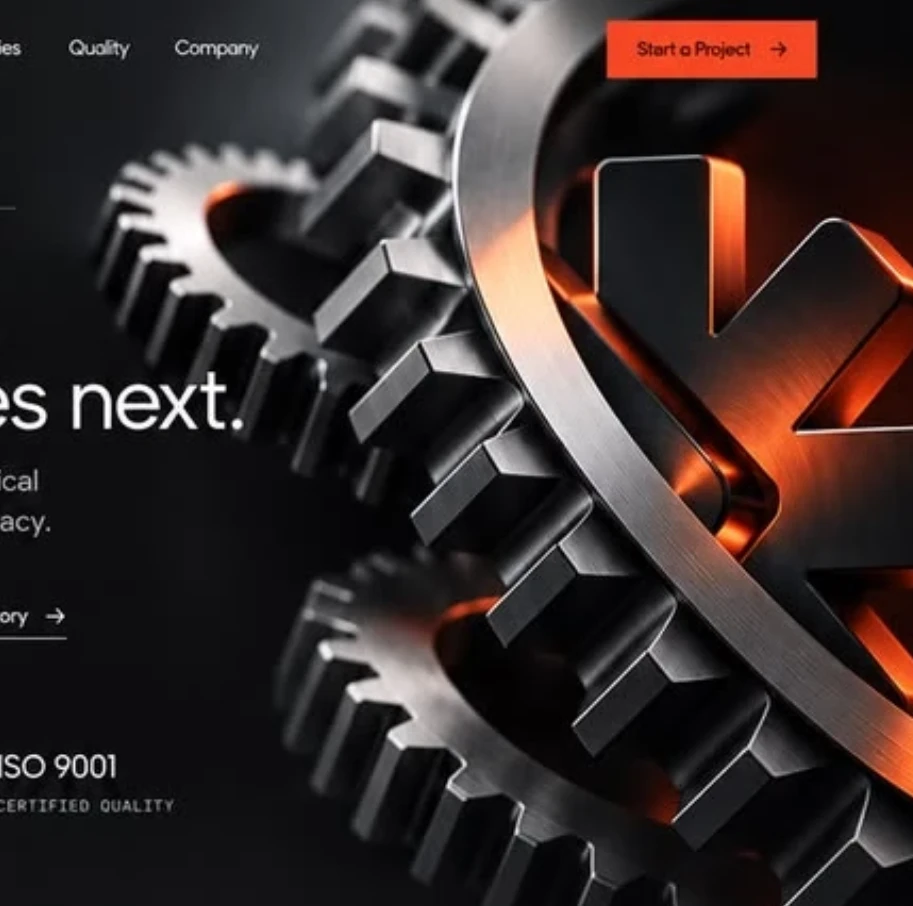
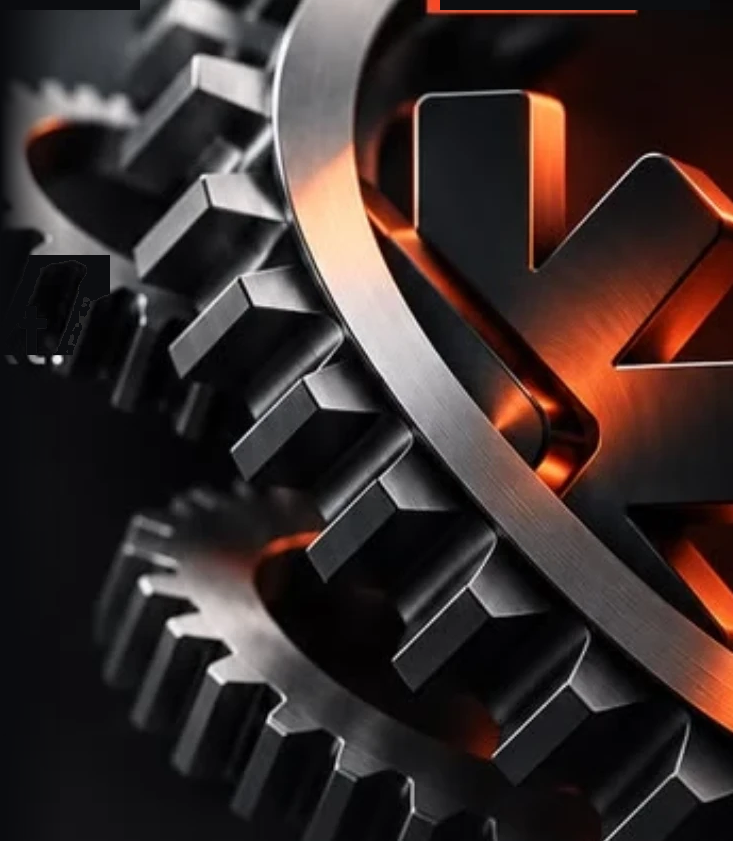
feat: spotless 3D gear visual and perfected dark titanium split hero

diff --git a/about.html b/about.html
@@ -8,7 +8,7 @@
 <link rel="preconnect" href="https://fonts.googleapis.com">
 <link rel="preconnect" href="https://fonts.gstatic.com" crossorigin>
 <link href="https://fonts.googleapis.com/css2?family=Inter:wght@400;500;600;700;800&family=Space+Mono:wght@400;700&display=swap" rel="stylesheet">
-<link rel="stylesheet" href="css/style.css?v=axis20261028">
+<link rel="stylesheet" href="css/style.css?v=fable5v1">
 </head>
 <body>
 

diff --git a/contact.html b/contact.html
@@ -8,7 +8,7 @@
 <link rel="preconnect" href="https://fonts.googleapis.com">
 <link rel="preconnect" href="https://fonts.gstatic.com" crossorigin>
 <link href="https://fonts.googleapis.com/css2?family=Inter:wght@400;500;600;700;800&family=Space+Mono:wght@400;700&display=swap" rel="stylesheet">
-<link rel="stylesheet" href="css/style.css?v=axis20261028">
+<link rel="stylesheet" href="css/style.css?v=fable5v1">
 </head>
 <body>
 

diff --git a/enquiry.html b/enquiry.html
@@ -8,7 +8,7 @@
 <link rel="preconnect" href="https://fonts.googleapis.com">
 <link rel="preconnect" href="https://fonts.gstatic.com" crossorigin>
 <link href="https://fonts.googleapis.com/css2?family=Inter:wght@400;500;600;700;800&family=Space+Mono:wght@400;700&display=swap" rel="stylesheet">
-<link rel="stylesheet" href="css/style.css?v=axis20261028">
+<link rel="stylesheet" href="css/style.css?v=fable5v1">
 </head>
 <body>
 

diff --git a/index.html b/index.html
@@ -8,7 +8,7 @@
 <link rel="preconnect" href="https://fonts.googleapis.com">
 <link rel="preconnect" href="https://fonts.gstatic.com" crossorigin>
 <link href="https://fonts.googleapis.com/css2?family=Inter:wght@400;500;600;700;800&family=Space+Mono:wght@400;700&display=swap" rel="stylesheet">
-<link rel="stylesheet" href="css/style.css?v=axis20261028">
+<link rel="stylesheet" href="css/style.css?v=fable5v1">
 </head>
 <body>
 

diff --git a/machine.html b/machine.html
@@ -8,7 +8,7 @@
 <link rel="preconnect" href="https://fonts.googleapis.com">
 <link rel="preconnect" href="https://fonts.gstatic.com" crossorigin>
 <link href="https://fonts.googleapis.com/css2?family=Inter:wght@400;500;600;700;800&family=Space+Mono:wght@400;700&display=swap" rel="stylesheet">
-<link rel="stylesheet" href="css/style.css?v=axis20261028">
+<link rel="stylesheet" href="css/style.css?v=fable5v1">
 </head>
 <body>
 

diff --git a/products.html b/products.html
@@ -8,7 +8,7 @@
 <link rel="preconnect" href="https://fonts.googleapis.com">
 <link rel="preconnect" href="https://fonts.gstatic.com" crossorigin>
 <link href="https://fonts.googleapis.com/css2?family=Inter:wght@400;500;600;700;800&family=Space+Mono:wght@400;700&display=swap" rel="stylesheet">
-<link rel="stylesheet" href="css/style.css?v=axis20261028">
+<link rel="stylesheet" href="css/style.css?v=fable5v1">
 </head>
 <body>
 
